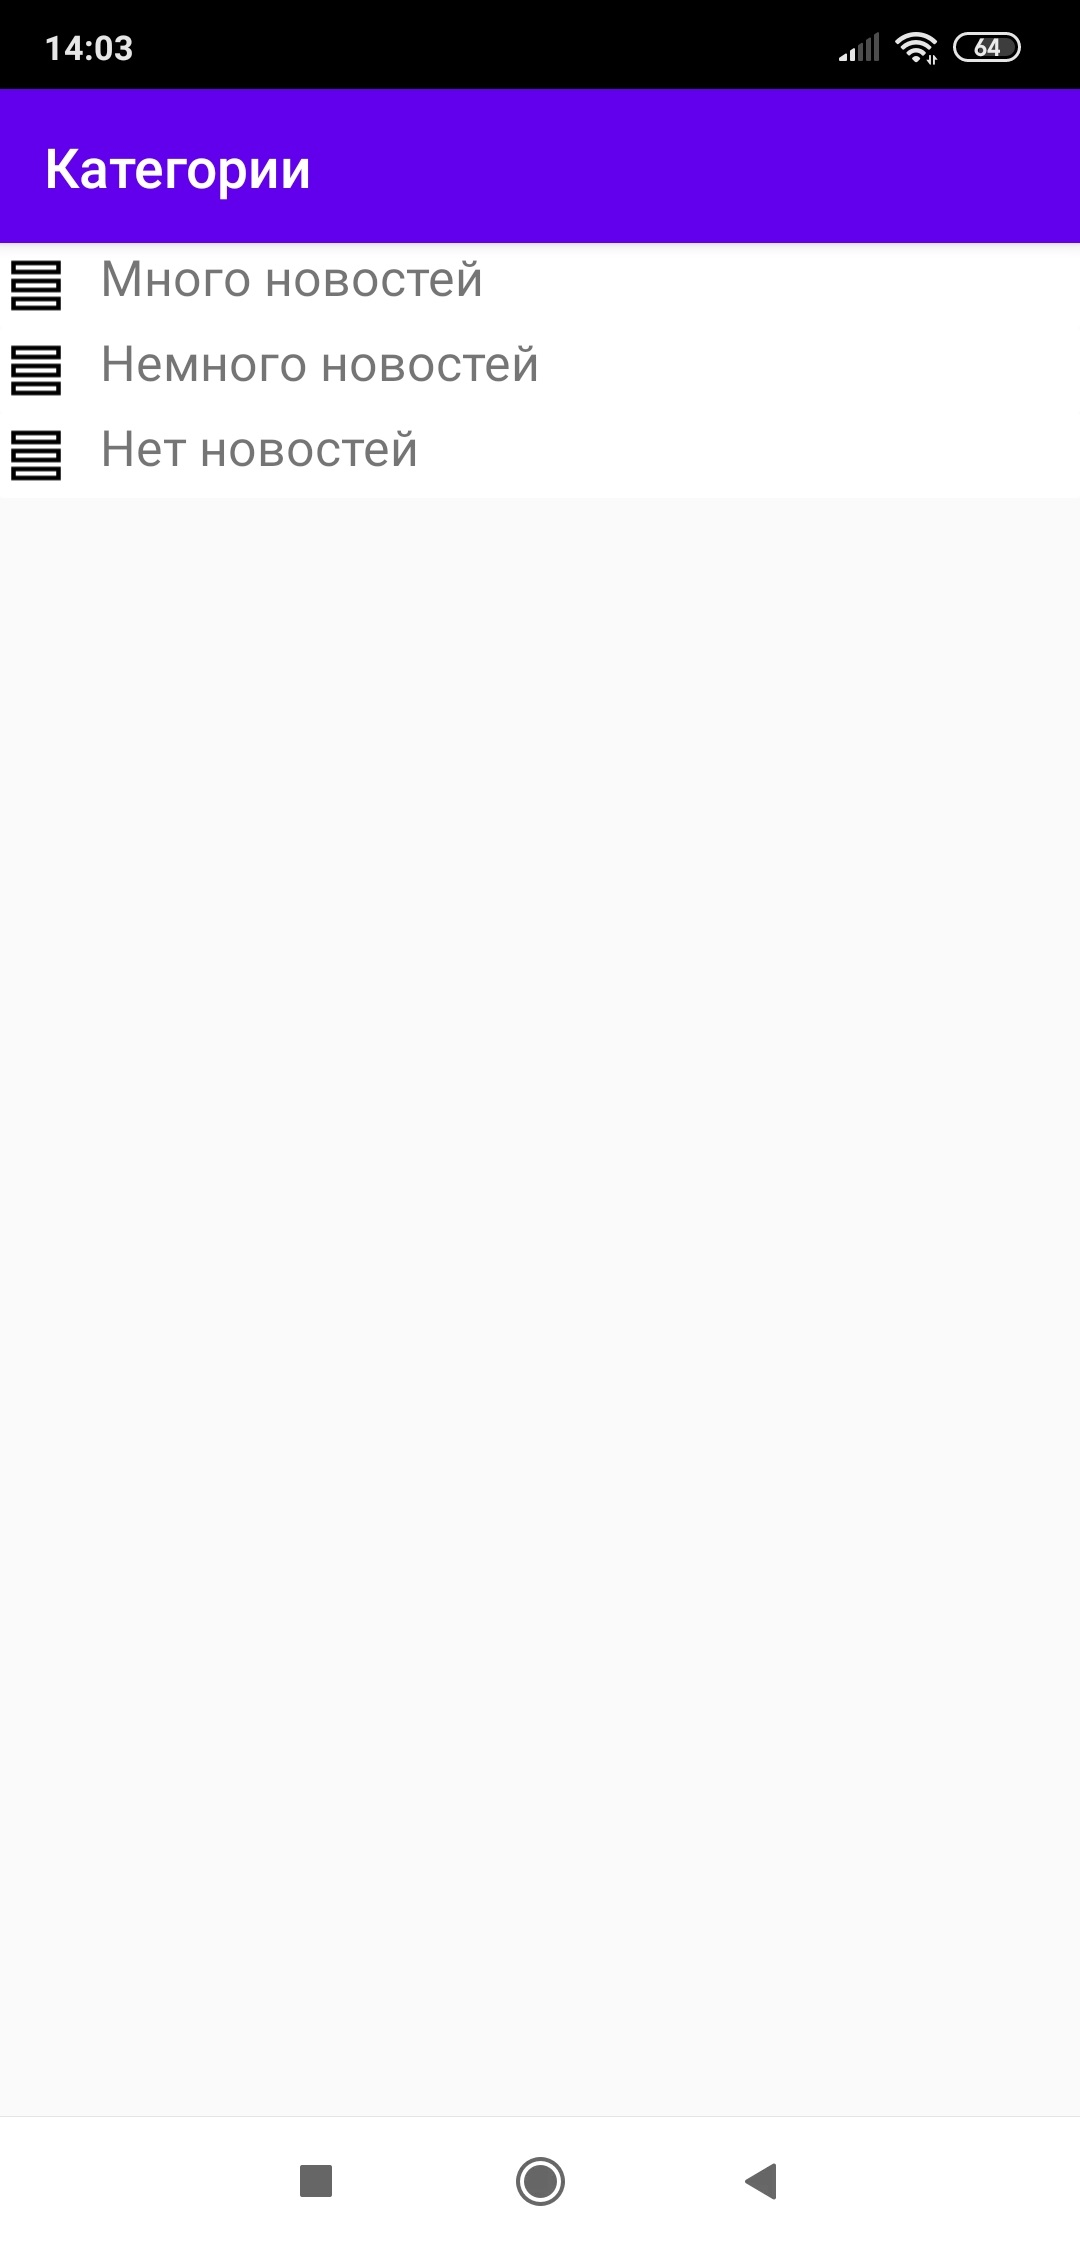
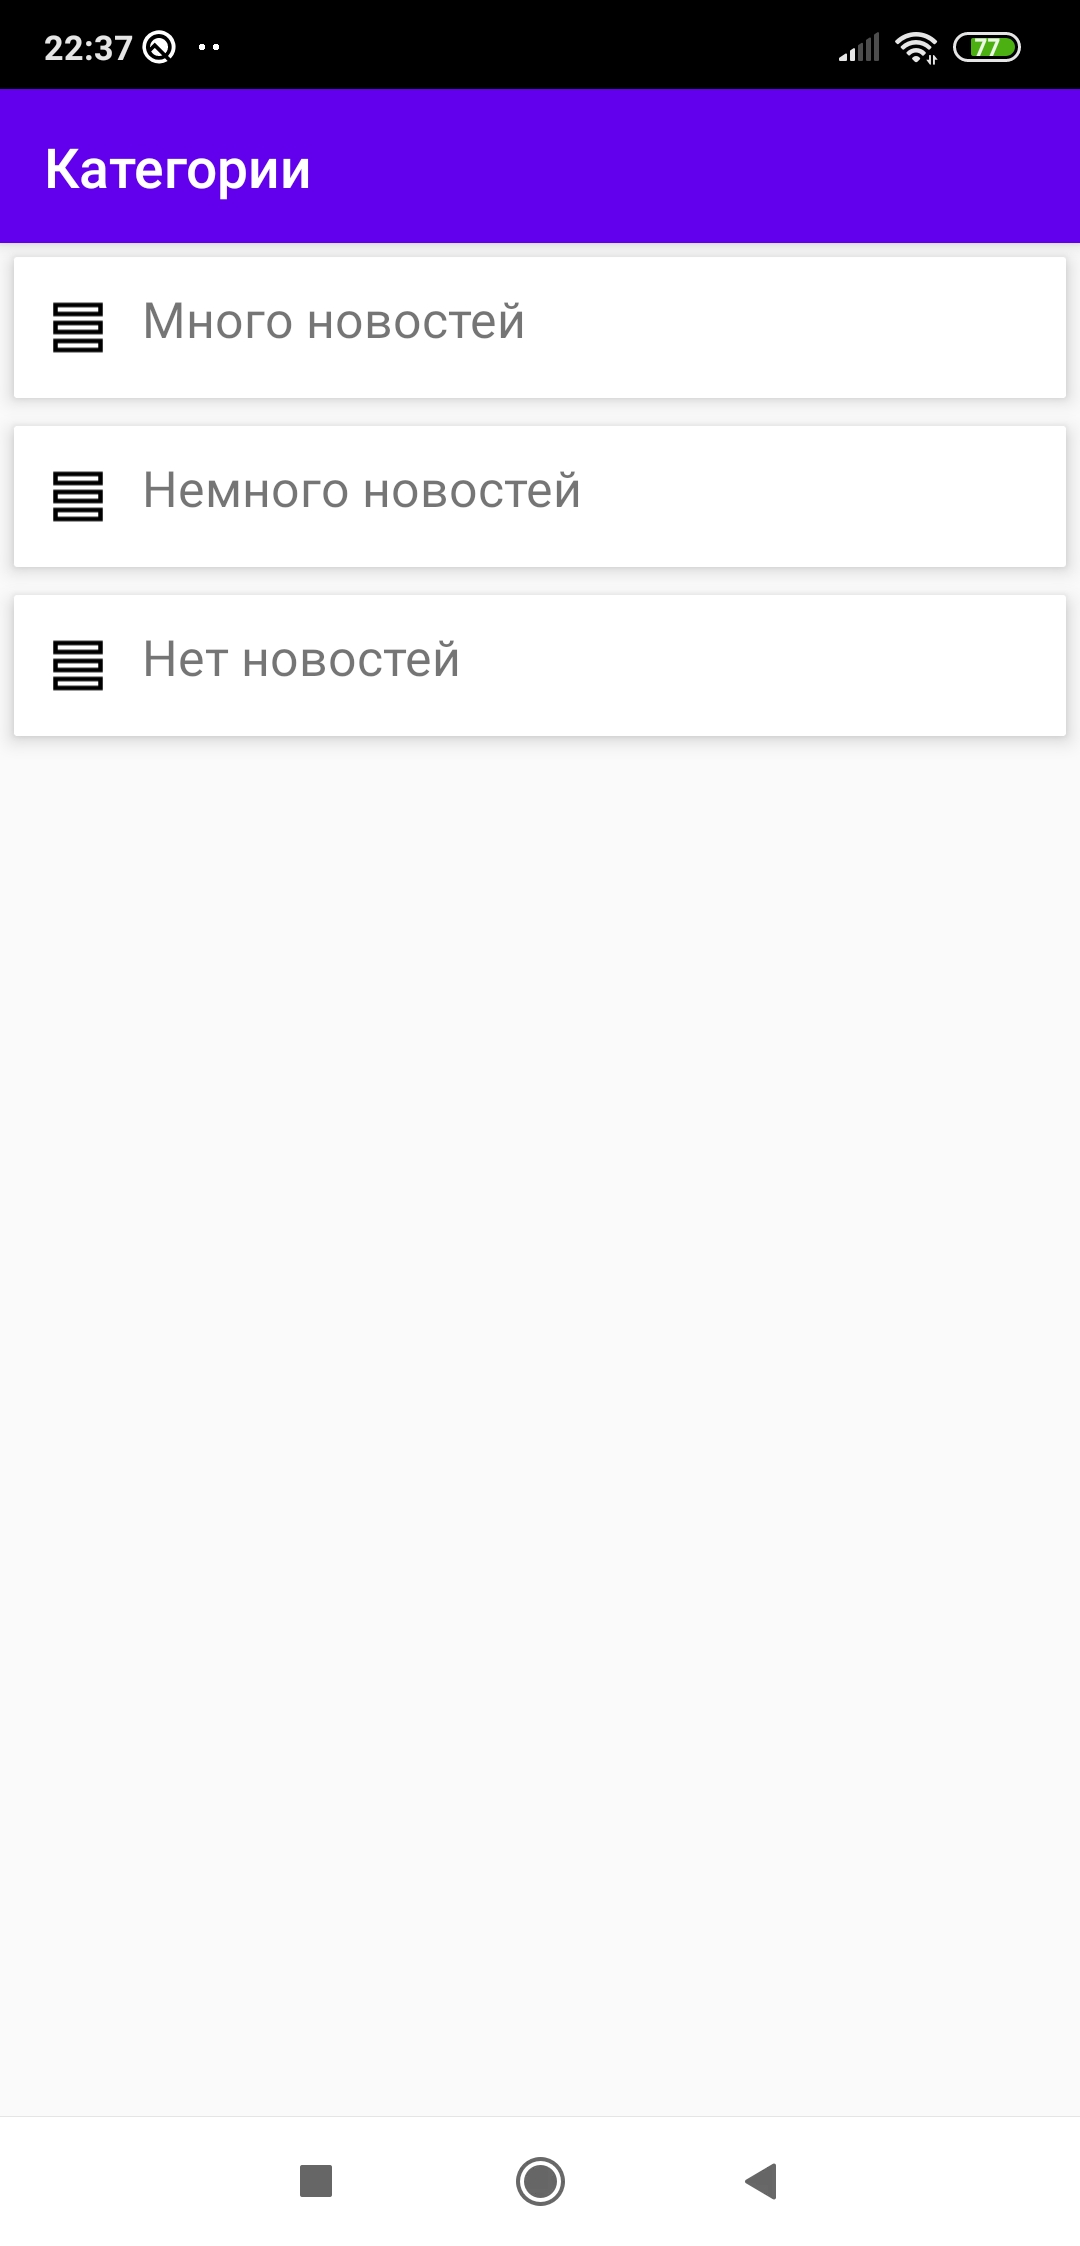
style and data class
* Style for list.
 * Entity as data class.

diff --git a/app/src/main/java/com/sebbia/brzsmg/testtask/model/News.kt b/app/src/main/java/com/sebbia/brzsmg/testtask/model/News.kt
@@ -5,10 +5,10 @@ import com.sebbia.brzsmg.testtask.types.DateTime
 /**
  * Сущность новости.
  */
-class News {
-    var id: Int? = null
-    var date: DateTime? = null
-    var fullDescription: String? = null
-    var shortDescription: String? = null
-    var title: String? = null
-}
+class News (
+    val id: Int,
+    val date: DateTime,
+    val fullDescription: String,
+    val shortDescription: String,
+    val title: String
+)

diff --git a/app/src/main/java/com/sebbia/brzsmg/testtask/Application.kt b/app/src/main/java/com/sebbia/brzsmg/testtask/Application.kt
@@ -7,7 +7,6 @@ import androidx.fragment.app.FragmentActivity
 import com.facebook.stetho.Stetho
 import com.facebook.stetho.okhttp3.StethoInterceptor
 import com.sebbia.brzsmg.testtask.server.NewsApi
-import com.uralkali.client.Json
 import okhttp3.OkHttpClient
 import retrofit2.Retrofit
 import retrofit2.adapter.rxjava2.RxJava2CallAdapterFactory

diff --git a/app/src/main/java/com/sebbia/brzsmg/testtask/model/NewsEntity.kt b/app/src/main/java/com/sebbia/brzsmg/testtask/model/NewsEntity.kt
@@ -3,7 +3,7 @@ package com.sebbia.brzsmg.testtask.model
 /**
  * Результат API, с подробной информацией о новости.
  */
-class NewsEntity {
-    var code : Int? = null
-    var news : News? = null
-}
+class NewsEntity (
+    val code : Int,
+    val news : News
+)

diff --git a/app/src/main/java/com/sebbia/brzsmg/testtask/model/ResultEntity.kt b/app/src/main/java/com/sebbia/brzsmg/testtask/model/ResultEntity.kt
@@ -3,7 +3,7 @@ package com.sebbia.brzsmg.testtask.model
 /**
  * Результат API, со списком.
  */
-class ResultEntity<T> {
-    var code : Int? = null
-    var list : List<T>? = null
-}
+class ResultEntity<T> (
+    val code : Int,
+    val list : List<T>
+)

diff --git a/app/src/main/java/com/sebbia/brzsmg/testtask/model/Category.kt b/app/src/main/java/com/sebbia/brzsmg/testtask/model/Category.kt
@@ -3,7 +3,7 @@ package com.sebbia.brzsmg.testtask.model
 /**
  * Сущность категории.
  */
-class Category {
-    var id : Int? = null
-    var name : String? = null
-}
+class Category(
+    val id : Int,
+    val name : String
+)

diff --git a/app/src/main/java/com/sebbia/brzsmg/testtask/Json.kt b/app/src/main/java/com/sebbia/brzsmg/testtask/Json.kt
@@ -1,4 +1,4 @@
-package com.uralkali.client
+package com.sebbia.brzsmg.testtask
 
 import com.google.gson.*
 import com.sebbia.brzsmg.testtask.types.DateTime

diff --git a/README.md b/README.md
@@ -14,28 +14,28 @@ Operations:
 ```kotlin
 //Entities
 
-class ResultEntity<T> {
-    var code : Int? = null
-    var list : List<T>? = null
-}
+class ResultEntity<T> (
+    val code : Int,
+    val list : List<T>
+)
 
-class Category {
-    var id : Int? = null
-    var name : String? = null
-}
+class Category(
+    val id : Int,
+    val name : String
+)
 
-class News {
-    var id: Int? = null
-    var date: DateTime? = null
-    var fullDescription: String? = null
-    var shortDescription: String? = null
-    var title: String? = null
-}
+class News (
+    val id: Int,
+    val date: DateTime,
+    val fullDescription: String,
+    val shortDescription: String,
+    val title: String
+)
 
-class NewsEntity {
-    var code : Int? = null
-    var news : News? = null
-}
+class NewsEntity (
+    val code : Int,
+    val news : News
+)
 
 ```
 
